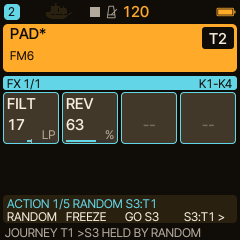
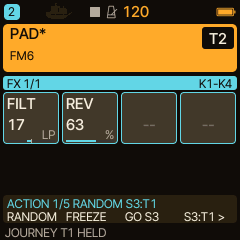
MORPH JOURNEY: trim flash (shared slot message, one status format, fewer texts)
The target link overflowed the XIP region: one message function for the
selected slot, one format for the status line and the journey title, no
extra HELD/GOES ON messages (the status line says it). Texts and docs follow.

Changed region(s): [[0.3208, 0.9333, 0.8458, 0.9917]]

diff --git a/experiments/home-perf/home_random_morph.c b/experiments/home-perf/home_random_morph.c
@@ -222,6 +222,7 @@ static uint32_t hp_rm_snapshot_count(uint32_t slot)
 {
  return slot<HP_RM_SNAP_SLOTS?hp_rm_snap[slot].count:0u;
 }
+static void hp_rm_snapshot_say(uint32_t slot);
 static void hp_rm_snapshot_owner(uint32_t slot,char*b)   /* who a slot belongs to: "T2" (a track), "ALL" or "-" (empty) */
 {
  const hp_rm_snap_t*s=&hp_rm_snap[slot%HP_RM_SNAP_SLOTS];
@@ -291,7 +292,7 @@ static int hp_rm_snapshot_store(uint32_t slot)
 static void hp_rm_snapshot_delete(uint32_t slot)      /* RANDOM SETUP, A4 hold: empty the selected slot */
 {
  if(slot>=HP_RM_SNAP_SLOTS)return;
- if(!hp_rm_snap[slot].count){ui_message("SNAP: ALREADY EMPTY");ui.force=1;return;}
+ if(!hp_rm_snap[slot].count){hp_rm_snapshot_say(slot);return;}
  hp_rm_reset();
  memset(&hp_rm_snap[slot],0,sizeof hp_rm_snap[slot]);
  hp_dirty=1;
@@ -306,6 +307,12 @@ static void hp_rm_snapshot_delete(uint32_t slot)      /* RANDOM SETUP, A4 hold: 
  * entire morph without partially moving any control.
  * Morph starts from the ACTUAL live values, including manual/frozen edits.
  */
+static void hp_rm_snapshot_say(uint32_t slot)       /* "SNAP S2 IS T1" or "SNAP S2 EMPTY" */
+{
+ char o[4],m[32];hp_rm_snapshot_owner(slot,o);
+ if(hp_rm_snap[slot].count)perf_format(m,sizeof m,"SNAP S%u IS %s",slot+1u,o);else perf_format(m,sizeof m,"SNAP S%u EMPTY",slot+1u);
+ ui_message(m);ui.force=1;
+}
 static uint8_t hp_rm_skip;   /* bit t: a journey leg leaves track t's controls alone (set only around the leg's recall) */
 static int hp_rm_skipped(hp_ref_t r)
 {
@@ -574,7 +581,7 @@ static void hp_j_select(uint32_t s,uint32_t now)   /* the shared slot; a running
  if(s==action_snap_slot)return;
  action_snap_slot=(uint8_t)s;
  if(hp_rm_snap[s].count&&hp_j.on&&!hp_j.paused){if(hp_j_leg(s,now))hp_j_say("JOURNEY >S%u",s+1u,0u);}
- else{char o[4],m[32];hp_rm_snapshot_owner(s,o);if(hp_rm_snap[s].count)perf_format(m,sizeof m,"SNAP S%u IS %s",s+1u,o);else perf_format(m,sizeof m,"SNAP S%u EMPTY",s+1u);ui_message(m);ui.force=1;}
+ else hp_rm_snapshot_say(s);
 }
 static void hp_j_button(uint32_t i,uint32_t now)
 {
@@ -588,7 +595,7 @@ static void hp_j_button(uint32_t i,uint32_t now)
    ui_message("JOURNEY PAUSED");
   }else if(hp_j.held==2u){                               /* paused while held: the leg starts again from the live values */
    hp_j.paused=0;
-   if(hp_j.phase==0){hp_j_leg(hp_j.tgt,now);hp_j_say("JOURNEY PLAY >S%u",hp_j.tgt+1u,0u);}
+   if(hp_j.phase==0)hp_j_leg(hp_j.tgt,now);
    else{hp_j.held=0;hp_j.t0=now;ui_message("JOURNEY PLAY");}
   }else{
    hp_j.paused=0;
@@ -609,8 +616,7 @@ static void hp_j_button(uint32_t i,uint32_t now)
 static void hp_j_hold(uint32_t now)               /* another morph took the engine: the journey waits and goes on by itself when it is done */
 {
  if(hp_j.phase==1u){uint32_t e=now-hp_j.t0;hp_j.left=e<hp_j.left?hp_j.left-e:0u;}
- hp_j.held=1u;
- char m[32];perf_format(m,sizeof m,"JOURNEY HELD BY T%u",(uint32_t)hp_rm.origin_track+1u);ui_message(m);ui.force=1;
+ hp_j.held=1u;ui.force=1;
 }
 static void hp_journey_poll(uint32_t now)
 {
@@ -634,7 +640,7 @@ static void hp_journey_poll(uint32_t now)
  if(hp_j.held==1u){                                  /* held: wait until the other morph has ended (arrived, or reset) */
   if(hp_j_moving())return;
   hp_j.held=0;
-  if(hp_j.phase==0){if(hp_j_leg(hp_j.tgt,now))hp_j_say("JOURNEY GOES ON >S%u",hp_j.tgt+1u,0u);}
+  if(hp_j.phase==0)hp_j_leg(hp_j.tgt,now);
   else hp_j.t0=now;
   return;
  }

diff --git a/experiments/home-perf/home_ui.c b/experiments/home-perf/home_ui.c
@@ -438,9 +438,8 @@ static void hp_draw_home(void)
   #if HP_JVN
   if(action_bank==ACT_BANK_JOURNEY){
    uint32_t js=hp_j.on?hp_j.tgt:action_snap_slot;
-   if(action_setup)perf_format(title,sizeof title,"SETUP 5/5 JOURNEY TRACKS");
-   else perf_format(title,sizeof title,"JOURNEY 5/5 T%u S%u%s %s",
-     hp_rm_snapshot_count(js)?(uint32_t)hp_rm_snap[js].origin_track+1u:0u,action_snap_slot+1u,hp_rm_snapshot_count(action_snap_slot)?"*":"-",
+   perf_format(title,sizeof title,"%s 5/5 T%u S%u %s",action_setup?"SETUP":"JOURNEY",
+     hp_rm_snapshot_count(js)?(uint32_t)hp_rm_snap[js].origin_track+1u:0u,action_snap_slot+1u,
      !hp_j.on?"OFF":hp_j.paused?"PAUSE":hp_j.held?"HOLD":hp_j.phase?"WAIT":"PLAY");
   }
   else
@@ -493,18 +492,20 @@ static void hp_draw_home(void)
   int jb=0;
 #endif
   /* What is moving right now: there is one morph engine for all tracks, so say which track owns it, in every bank. */
-  if(0){}
+  if(!jb&&
 #if HP_JVN
-  else if(!jb&&hp_j.on){
-   uint32_t js=hp_j.tgt;
-   perf_format(running,sizeof running,"JOURNEY T%u >S%u %s",(uint32_t)hp_rm_snap[js].origin_track+1u,js+1u,
-     hp_j.paused?"PAUSE":hp_j.held?"HELD BY RANDOM":hp_j.phase?"WAIT":"PLAY");
-   action_help=running;
-  }
+     (hp_j.on||
+#else
+     (
 #endif
-  else if(!jb&&(hp_rm.state==HP_RM_RANDOM||hp_rm.state==HP_RM_RETURN||hp_rm.state==HP_RM_RECALL||hp_rm.state==HP_RM_FROZEN)){
-   perf_format(running,sizeof running,"%s T%u %s",hp_rm.state==HP_RM_RETURN?"RETURN":hp_rm.state==HP_RM_RECALL?"GO SNAP":"RANDOM",
-     (uint32_t)hp_rm.origin_track+1u,hp_rm.state==HP_RM_FROZEN?"FROZEN":"RUNNING");
+      hp_rm.state==HP_RM_RANDOM||hp_rm.state==HP_RM_RETURN||hp_rm.state==HP_RM_RECALL||hp_rm.state==HP_RM_FROZEN)){
+   static const char*const names[]={"RANDOM","RETURN","GO SNAP","JOURNEY"};
+   static const char*const states[]={"RUNNING","FROZEN","PLAY","PAUSE","HELD","WAIT"};
+   uint32_t n=hp_rm.state==HP_RM_RETURN?1u:hp_rm.state==HP_RM_RECALL?2u:0u,st=hp_rm.state==HP_RM_FROZEN,tr=hp_rm.origin_track;
+#if HP_JVN
+   if(hp_j.on){n=3u;tr=hp_rm_snap[hp_j.tgt].origin_track;st=hp_j.paused?3u:hp_j.held?4u:hp_j.phase?5u:2u;}
+#endif
+   perf_format(running,sizeof running,"%s T%u %s",names[n],tr+1u,states[st]);
    action_help=running;
   }
 #endif

diff --git a/experiments/action-banks/journey_hold_test.c b/experiments/action-banks/journey_hold_test.c
@@ -36,7 +36,6 @@ int main(void){
  CHECK(hp_j.on&&hp_j.phase==0u&&hp_j.held==0u&&hp_rm.state==HP_RM_RECALL);
  sel(1);bank(0u);tap(1);run_ms(300);                                          /* T2 RANDOM */
  CHECK(hp_j.on&&hp_j.held==1u&&hp_rm.state==HP_RM_RANDOM&&hp_rm.origin_track==1u);
- CHECK(strstr(ui.msg,"HELD BY T2")!=NULL||hp_j.held==1u);
  {int32_t r=trk[0].p[P_REV],p=trk[0].p[P_PAN];run_ms(600);CHECK(trk[0].p[P_REV]==r&&trk[0].p[P_PAN]==p);}   /* T1 stands still while held */
  {uint32_t g=0;while(hp_j.held&&g++<3000u)run_ms(10);}
  run_ms(100);CHECK(hp_j.on&&hp_j.held==0u&&hp_rm.state==HP_RM_RECALL&&hp_j.tgt==0u);              /* it went on by itself, same target */
@@ -87,7 +86,7 @@ int main(void){
  hp_rm_reset();set_all(33,0,50,0);action_snap_slot=2;hold(4,700);CHECK(hp_rm_snapshot_count(2)>0u&&strstr(ui.msg,"SAVED")!=NULL);
  hold(0,700);CHECK(action_setup==1u);
  hold(4,700);CHECK(hp_rm_snapshot_count(2)==0u&&strstr(ui.msg,"S3 DELETED")!=NULL);
- hold(4,700);CHECK(strstr(ui.msg,"ALREADY EMPTY")!=NULL);
+ hold(4,700);CHECK(strstr(ui.msg,"S3 EMPTY")!=NULL);
  CHECK(hp_rm_snapshot_count(0)>0u&&hp_rm_snapshot_count(1)>0u);
  hold(0,700);CHECK(action_setup==0u);
  /* deleting a slot while a journey runs ends it (its set of slots changed) */

diff --git a/experiments/action-banks/action_control.c b/experiments/action-banks/action_control.c
@@ -42,12 +42,7 @@ static void action_snapshot_poll(uint32_t mask)
    if(action_bank==ACT_BANK_JOURNEY){hp_j_set_wait((hp_j.wait+1u)%6u);action_snap_long=0;return;} /* tap A4: WAIT 0/1/2/4/8/16 bars */
 #endif
    action_snap_slot=(uint8_t)((action_snap_slot+1u)%HP_RM_SNAP_SLOTS);
-   char message[32];
-   char owner[4];hp_rm_snapshot_owner(action_snap_slot,owner);
-   if(hp_rm_snapshot_count(action_snap_slot))perf_format(message,sizeof message,"SNAP S%u IS %s",action_snap_slot+1u,owner);
-   else perf_format(message,sizeof message,"SNAP S%u EMPTY",action_snap_slot+1u);
-   ui_message(message);
-   ui.force=1;
+   hp_rm_snapshot_say(action_snap_slot);
   }
   action_snap_long=0;
  }

diff --git a/tools/morph_tutorial_diagram.py b/tools/morph_tutorial_diagram.py
@@ -32,7 +32,7 @@ def poly(y,pts,col):
 poly(350,[(a,5),(b,28),(c,28),(e,50),(f,50)],AMB)
 poly(450,[(a,20),(b,20),(c,45),(f,45)],CYAN)
 for x in (b,c):d.line((x,128,x,640),fill=LINE,width=1)
-for x,l1,l2,col in ((a,"JOURNEY T1 >S1","PLAY",GREEN),(b+8,"JOURNEY T1 >S1","HELD BY RANDOM",RED),(c+8,"JOURNEY T1 >S1","PLAY (message: GOES ON)",GREEN)):
+for x,l1,l2,col in ((a,"JOURNEY T1","PLAY",GREEN),(b+8,"JOURNEY T1","HELD",RED),(c+8,"JOURNEY T1","PLAY",GREEN)):
     text((x,540),l1,col,FS);text((x,564),l2,col,FS)
 # notes
 text((b,112),"1  T2: A1 RANDOM",CYAN,FS,"ma");text((c,112),"2  T2 morph is done",CYAN,FS,"ma")

diff --git a/CHANGELOG.md b/CHANGELOG.md
@@ -2,7 +2,8 @@
 
 ## [0.8.0] - 2026-11-01
 
-- MORPH JOURNEY: a fifth ACTION bank (after LIVE) chains the Random Morph snapshots S1–S4 into one hands-free movement. A1 PLAY/PAUSE/RESUME, A2 direction (the running leg finishes first), A3 NEXT, A4 tap WAIT (0/1/2/4/8/16 bars), A4 hold saves. Leg length and curve are RANDOM SETUP's BARS and SHAPE; BARS, SCOPE and SHAPE changed during a journey wait for the next leg. It keeps running when you change bank, a hand or CC edit keeps its value for the rest of the leg, saving a snapshot or starting a RANDOM morph ends it, and RANDOM's A3 GO steers it. Nine MIDI Learn targets: PLAY, DIR, NEXT, WAIT, SLOT, BARS, DEPTH, SCOPE, SHAPE.
+- MORPH JOURNEY: a fifth ACTION bank (after LIVE) chains the Random Morph snapshots S1–S4 into one hands-free movement. A1 PLAY/PAUSE/RESUME, A2 direction (the running leg finishes first), A3 NEXT, A4 tap WAIT (0/1/2/4/8/16 bars), A4 hold saves. Leg length and curve are RANDOM SETUP's BARS and SHAPE; BARS, SCOPE and SHAPE changed during a journey wait for the next leg. It keeps running when you change bank, a hand or CC edit keeps its value for the rest of the leg, saving or deleting a snapshot ends it, RANDOM's A3 GO steers it, and a RANDOM morph on any track only **holds** it: it goes on by itself when that morph is done (A1 while held pauses it). Every slot is a scene (slots of different tracks and ALL slots form one journey; a leg moves exactly the controls stored in its target). Hold BANK in the JOURNEY bank: K1–K4 take TRACK 1–4 along or SKIP them (saved with the project). Nine MIDI Learn targets: PLAY, DIR, NEXT, WAIT, SLOT, BARS, DEPTH, SCOPE, SHAPE.
+- RANDOM SETUP: A4 hold deletes the selected snapshot slot. The four slots are shared by the whole project, and the owner of each is always shown: `S1:T3`, `S2:ALL`, `S3:-` in the RANDOM title and on the A4 key, a line listing all four, and `S1 SAVED, WAS T1` when a save replaces another track's slot. The line under the keys also says which track owns the running morph or journey.
 - A learned MIDI CC now takes its parameter over from a running Random Morph for every target: the ownership check truncated the id to 8 bits, so LFO2 (ids from 400) and DRUM-X (from 256) controls kept being overwritten.
 - BARS, DEPTH, SCOPE, SHAPE, WAIT and the direction are saved with each performance project (slots A–D, RESTORE LAST, USB backup, `.hpm`), in bytes earlier firmware requires to be zero: no size or layout change, but **0.7.x and earlier refuse a project saved by 0.8.0**. Projects made before load with the defaults (BARS 8, DEPTH 35, TRACK, SMOOTH, WAIT 0, forward); a loaded project starts with the journey stopped and S1 selected. Back up before updating or going back.
 - New tutorial for Random Morph and Morph Journey with real firmware screens, a tutorials section at the top of the README and an all-tutorials block on the website; README corrections (0.7.0 snapshot wording, engine count, headings).

diff --git a/docs/morph-journey.md b/docs/morph-journey.md
@@ -63,13 +63,13 @@ nothing moves. Hold BANK again to leave SETUP. The choice is saved with the proj
   to the same slot (or, if it was resting, with the rest of the pause). The picture below shows it. **A1 while held is PAUSE**: then it stays
   paused until you press A1 again. **A3 NEXT** or **A3 GO Sx** in RANDOM steer the journey to a slot at once. RANDOM's A2 FREEZE on the journey's own
   leg holds it like PAUSE does; a frozen RANDOM morph keeps the journey held.
-- **What is running is always shown.** In the JOURNEY bank the title reads `JOURNEY 5/5 T1 S2* PLAY` (the track that owns the snapshots, the slot, and
-  `PLAY`, `HOLD`, `WAIT`, `PAUSE` or `OFF`). In the other banks the line below the keys says `JOURNEY T1 >S2 PLAY` or `HELD BY RANDOM`, and
-  for a RANDOM morph `RANDOM T2 RUNNING`, `RETURN T2` or `GO SNAP T1`, so you can tell which track owns the one running morph.
+- **What is running is always shown.** In the JOURNEY bank the title reads `JOURNEY 5/5 T1 S2 PLAY` (the owner of the slot being approached, the slot, and
+  `PLAY`, `HOLD`, `WAIT`, `PAUSE` or `OFF`). In the other banks the line below the keys says `JOURNEY T1 PLAY`, `JOURNEY T1 HELD` and so on, and
+  for a RANDOM morph `RANDOM T2 RUNNING`, `RETURN T2 RUNNING` or `GO SNAP T1 RUNNING`, so you can tell which track owns the one running morph.
 - **The journey keeps running when you change bank**, so STASIS, PAIR and LIVE stay usable meanwhile.
 - **Hands and controllers win.** A parameter you turn, or set from a MIDI CC, keeps its value for the rest of the leg; the next leg
   moves it again.
-- **SETUP is one switch for the other banks.** Changing bank with SETUP on gives the knobs the new bank's values; the JOURNEY bank has none.
+- **SETUP is one switch for the other banks.** Entering the JOURNEY bank leaves SETUP; hold BANK there to open its own (the tracks).
 
 ![Diagram: a RANDOM morph on T2 holds the journey of T1, which goes on by itself](tutorials/img/journey-hold.png)
 

diff --git a/README.md b/README.md
@@ -42,7 +42,8 @@ Every screenshot comes from the actual firmware renderer. Start with the one tha
 
 [Download 0.8.0 firmware, installer, emulator and source](https://github.com/bonszaimusic/caravel/releases/tag/v0.8.0) · [What changed and what is tested](docs/release-080.md) · [Tutorial](docs/tutorials/random-morph-journey.md) · [Reference](docs/morph-journey.md)
 
-- **Morph Journey:** a fifth ACTION bank (BANK, after LIVE) chains the Random Morph snapshots S1–S4 into one hands-free movement. A1 PLAY/PAUSE, A2 direction, A3 NEXT, A4 tap WAIT, A4 hold saves; leg length and curve are RANDOM SETUP's BARS and SHAPE. It keeps running when you change bank and can be mapped with MIDI Learn.
+- **Morph Journey:** a fifth ACTION bank (BANK, after LIVE) chains the Random Morph snapshots S1–S4 into one hands-free movement. A1 PLAY/PAUSE, A2 direction, A3 NEXT, A4 tap WAIT, A4 hold saves; leg length and curve are RANDOM SETUP's BARS and SHAPE. It keeps running when you change bank, a RANDOM morph on another track only holds it (it goes on by itself afterwards), tracks can be left out (hold BANK in the JOURNEY bank) and MIDI Learn can map it.
+- **Snapshots:** the four slots are shared by the whole project and always show their owner (`S1:T3`, `S2:ALL`); hold A4 in RANDOM's SETUP to delete one.
 - **A learned MIDI CC wins over a running morph for every target** (LFO2 and DRUM-X controls were being overwritten).
 - BARS, DEPTH, SCOPE, SHAPE, WAIT and the direction are saved with each project. **Back up first: 0.7.x and earlier refuse a project saved by 0.8.0**; older projects load with the defaults.
 - Tested on the host, in CI and in the complete validation; **not verified** with a controller on a real FM-1, with external MIDI clock or in long runs. Flash is tight: 1,116 B left in the app slot.

diff --git a/docs/release-080.md b/docs/release-080.md
@@ -12,6 +12,13 @@ LIVE, and is played from the panel; MIDI Learn can also map it to a controller.
 2. Tap BANK until the title reads JOURNEY. **A1** PLAY / PAUSE / RESUME, **A2** direction (the running leg finishes,
    then the next one goes the new way), **A3** NEXT, **A4** tap WAIT (0, 1, 2, 4, 8, 16 bars of rest), A4 hold saves.
 3. Leg length and curve are RANDOM SETUP's BARS and SHAPE. A journey keeps running when you change bank.
+4. **One morph engine, one morph at a time.** A RANDOM morph on any track holds the journey and it goes on by itself when that morph is
+   done; A1 while held pauses it. Saving or deleting a snapshot ends it. The title and the line under the keys always say which track owns
+   what is running.
+5. **Four slots for the whole project.** Every slot is a scene: a leg moves exactly the controls stored in its target slot, so slots of
+   different tracks (and an ALL slot) form one journey. The owner of each slot is shown (`S1:T1 S2:T3 S3:ALL S4:-`).
+6. **Tracks left out:** hold BANK in the JOURNEY bank, K1 to K4 are TRACK 1 to 4, `ON` or `SKIP` (saved with the project).
+7. **Delete a slot:** in RANDOM's SETUP, select it and hold A4.
 
 Step-by-step with real firmware screens: [Random Morph and Morph Journey tutorial](tutorials/random-morph-journey.md).
 Reference, rules and MIDI table: [MORPH JOURNEY](morph-journey.md).

diff --git a/RELEASE-NOTES.md b/RELEASE-NOTES.md
@@ -5,7 +5,8 @@ snapshots S1–S4 into one long, hands-free movement: the sound morphs to a slot
 rests, moves on to the next slot and loops. A1 PLAY/PAUSE, A2 direction, A3 NEXT,
 A4 tap WAIT, A4 hold saves. Leg length and curve are RANDOM SETUP's BARS and
 SHAPE. It keeps running when you change bank, and MIDI Learn can map it to a
-controller. [Step-by-step tutorial](https://github.com/bonszaimusic/caravel/blob/v0.8.0/docs/tutorials/random-morph-journey.md).
+controller. A RANDOM morph on another track only holds it; it goes on by itself afterwards. Hold BANK in the JOURNEY bank to leave tracks out.
+Snapshot slots are shared by the whole project: their owners are shown, and A4 held in RANDOM's SETUP deletes one. [Step-by-step tutorial](https://github.com/bonszaimusic/caravel/blob/v0.8.0/docs/tutorials/random-morph-journey.md).
 
 **A MIDI CC now wins over a running morph for every target.** LFO2 and DRUM-X
 controls kept being overwritten by the morph, because the ownership check
